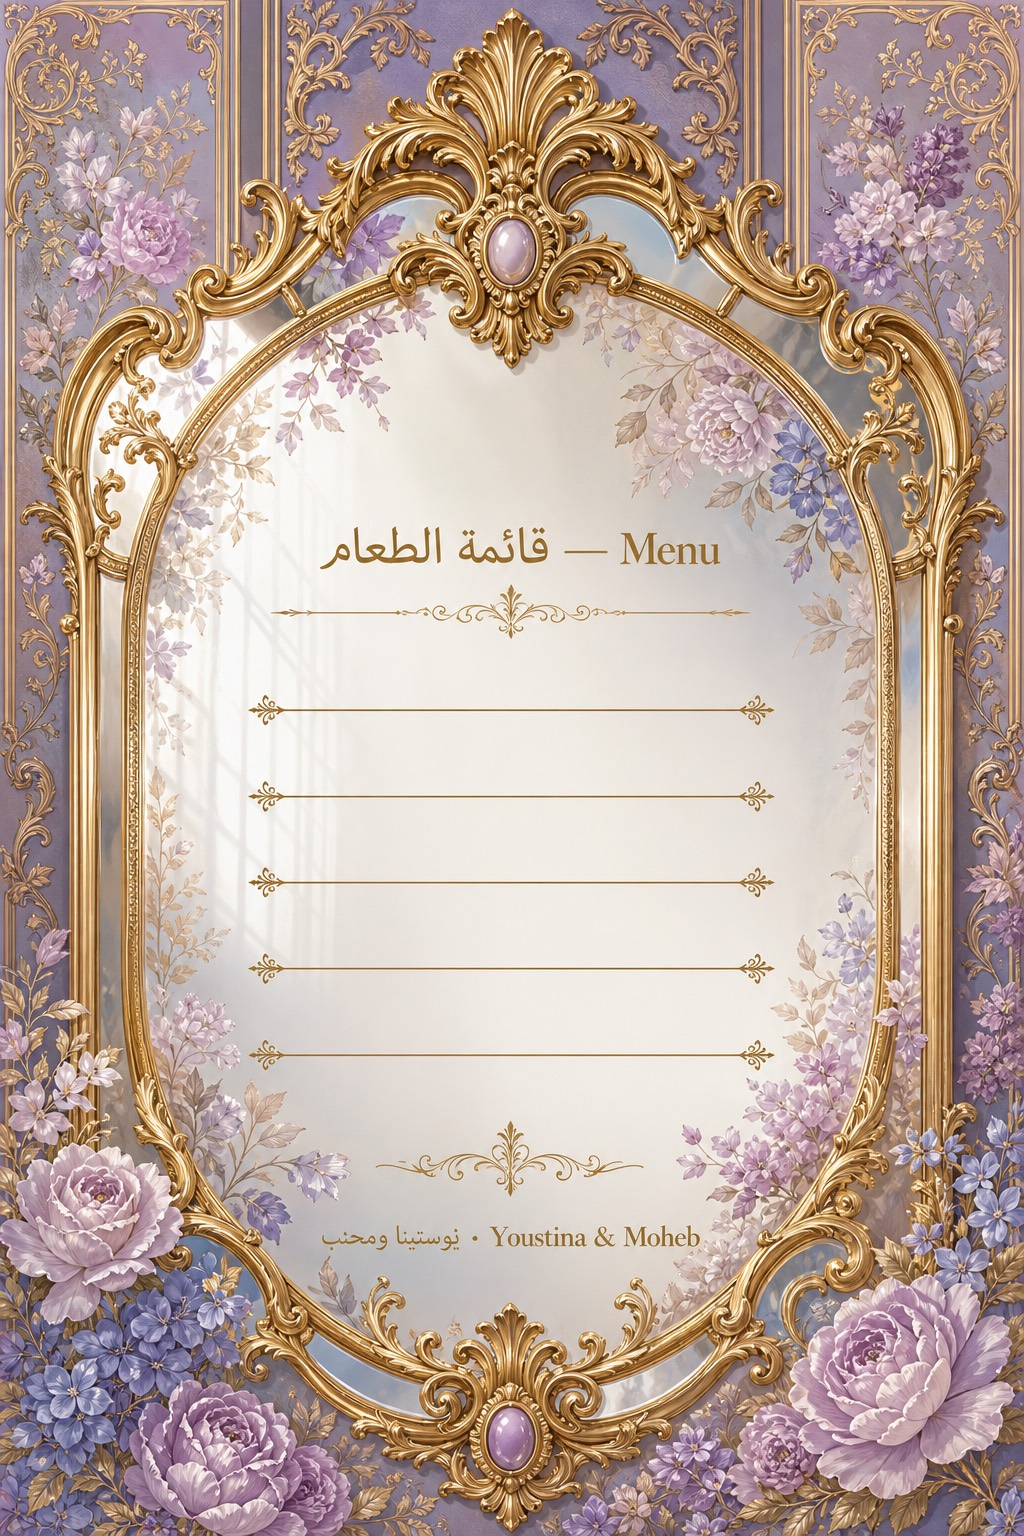
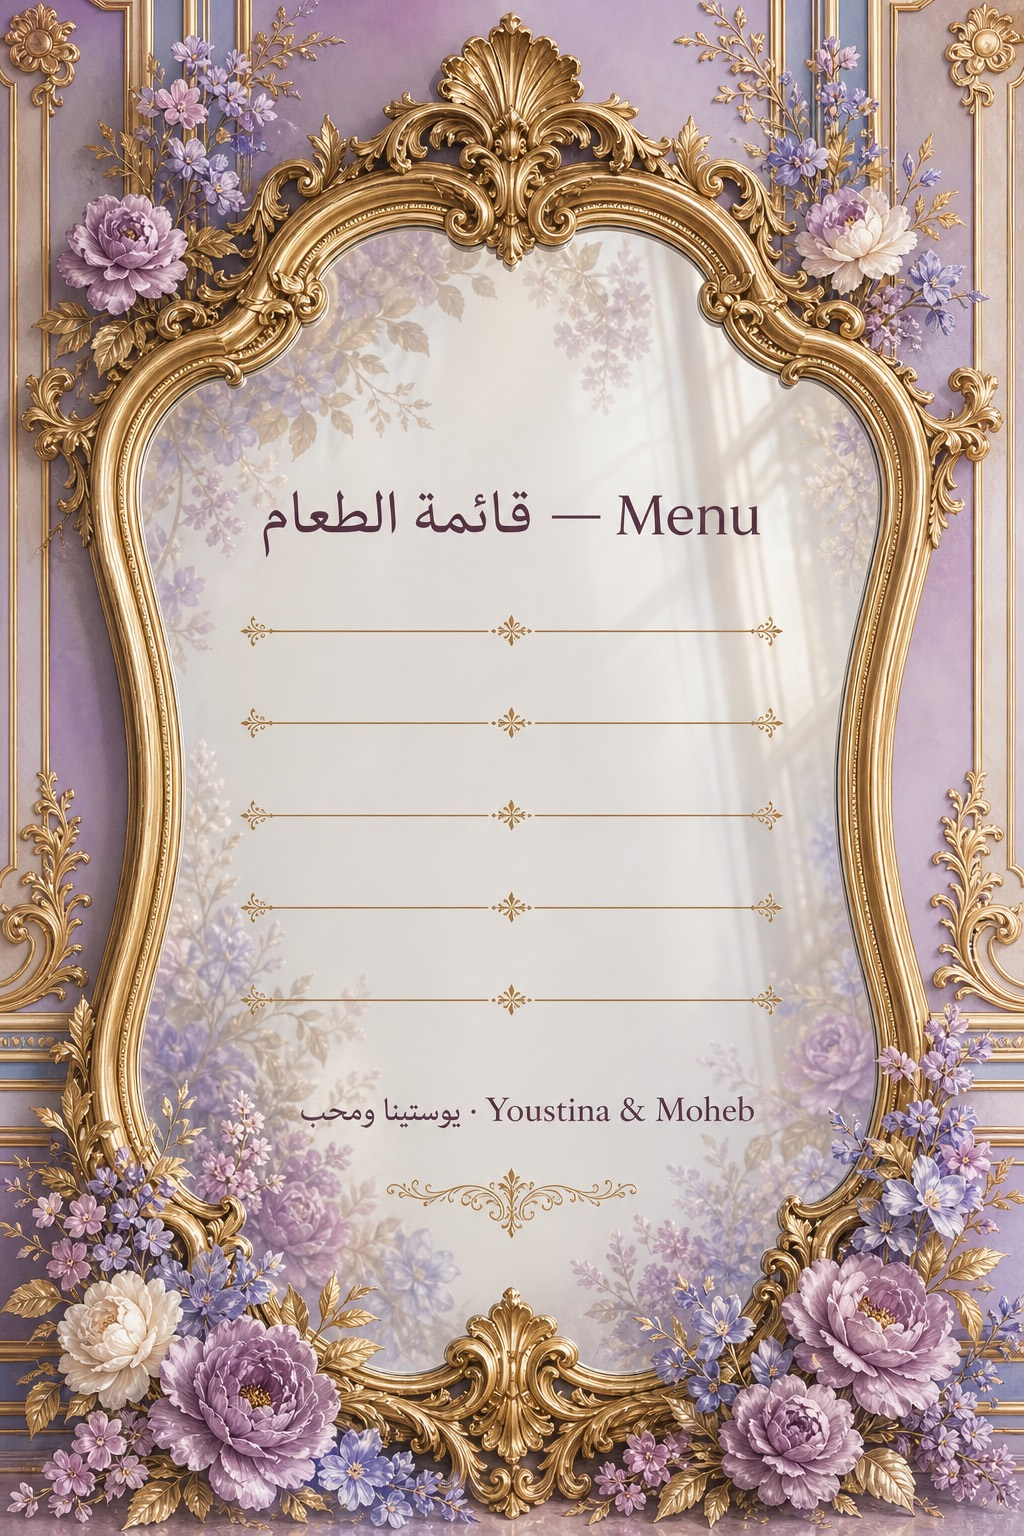
swipe: deck 34 themes, 146 judged

diff --git a/swipe/manifest.js b/swipe/manifest.js
@@ -1,1 +1,1 @@
-window.DECK = [{"theme":"wisteria-cathedral","theme_en":"Wisteria Cathedral","theme_ar":"كاتدرائية الوستارية"},{"theme":"pressed-herbarium","theme_en":"Pressed Herbarium","theme_ar":"معشبة الذكريات"},{"theme":"art-deco-gatsby","theme_en":"Deco Gold","theme_ar":"ذهب العشرينات"},{"theme":"porcelain-chinoiserie","theme_en":"Lilac Porcelain","theme_ar":"خزف الليلك"},{"theme":"stained-glass","theme_en":"Stained Glass","theme_ar":"زجاج الكنيسة الملون"},{"theme":"manuscript-illumination","theme_en":"Illuminated Manuscript","theme_ar":"مخطوطة مذهّبة"},{"theme":"moonlit-garden","theme_en":"Moonlit Garden","theme_ar":"حديقة القمر"},{"theme":"watercolor-jardin","theme_en":"Watercolor Jardin","theme_ar":"حديقة الألوان المائية"},{"theme":"velvet-foil","theme_en":"Velvet & Foil","theme_ar":"قطيفة وذهب"},{"theme":"marble-vein","theme_en":"Gilded Marble","theme_ar":"رخام مذهّب"},{"theme":"lace-veil","theme_en":"The Veil","theme_ar":"طرحة العروسة"},{"theme":"embroidered-linen","theme_en":"Embroidered Linen","theme_ar":"كتان مطرز"},{"theme":"venetian-glass","theme_en":"Venetian Glass","theme_ar":"زجاج البندقية"},{"theme":"andalusian-courtyard","theme_en":"Andalusian Courtyard","theme_ar":"فناء أندلسي"},{"theme":"english-rose-garden","theme_en":"English Rose Garden","theme_ar":"حديقة الورد الإنجليزية"},{"theme":"parisian-atelier","theme_en":"Parisian Atelier","theme_ar":"أتيلية باريس"},{"theme":"dawn-mist","theme_en":"Dawn Mist","theme_ar":"ضباب الفجر"},{"theme":"gilded-birdcage","theme_en":"The Gilded Birdcage","theme_ar":"القفص الذهبي"},{"theme":"crystal-chandelier","theme_en":"Crystal Ballroom","theme_ar":"قاعة الكريستال"},{"theme":"calligraphy-grand","theme_en":"The Calligraphy","theme_ar":"لوحة الخط"},{"theme":"paper-quilling","theme_en":"Paper Garden","theme_ar":"حديقة الورق"},{"theme":"toile-lilas","theme_en":"Toile de Lilas","theme_ar":"توال الليلك"},{"theme":"ombre-silk","theme_en":"Ombré Silk","theme_ar":"حرير متدرج"},{"theme":"pearl-shell","theme_en":"Mother of Pearl","theme_ar":"عرق اللؤلؤ"},{"theme":"olive-holyland","theme_en":"Olive Grove","theme_ar":"غصن الزيتون"},{"theme":"iconostasis-gold","theme_en":"Iconostasis","theme_ar":"حامل الأيقونات"},{"theme":"ink-botanical","theme_en":"Ink Botanical","theme_ar":"نباتات بالحبر"},{"theme":"dancing-ribbons","theme_en":"Dancing Ribbons","theme_ar":"شرائط راقصة"},{"theme":"candlelit-vellum","theme_en":"Candlelit Vellum","theme_ar":"شموع وورق شفاف"},{"theme":"spring-orchard","theme_en":"Spring Orchard","theme_ar":"بستان الربيع"},{"theme":"jasmine-nights","theme_en":"Jasmine Nights","theme_ar":"ليالي الفل"},{"theme":"lotus-nile","theme_en":"Nile Lotus","theme_ar":"لوتس النيل"},{"theme":"baroque-mirror","theme_en":"Baroque Mirror","theme_ar":"مرآة باروك"}];
+window.DECK = [{"theme":"wisteria-cathedral","theme_en":"Wisteria Cathedral","theme_ar":"كاتدرائية الوستارية"},{"theme":"pressed-herbarium","theme_en":"Pressed Herbarium","theme_ar":"معشبة الذكريات"},{"theme":"art-deco-gatsby","theme_en":"Deco Gold","theme_ar":"ذهب العشرينات"},{"theme":"porcelain-chinoiserie","theme_en":"Lilac Porcelain","theme_ar":"خزف الليلك"},{"theme":"stained-glass","theme_en":"Stained Glass","theme_ar":"زجاج الكنيسة الملون"},{"theme":"manuscript-illumination","theme_en":"Illuminated Manuscript","theme_ar":"مخطوطة مذهّبة"},{"theme":"moonlit-garden","theme_en":"Moonlit Garden","theme_ar":"حديقة القمر"},{"theme":"watercolor-jardin","theme_en":"Watercolor Jardin","theme_ar":"حديقة الألوان المائية"},{"theme":"velvet-foil","theme_en":"Velvet & Foil","theme_ar":"قطيفة وذهب"},{"theme":"marble-vein","theme_en":"Gilded Marble","theme_ar":"رخام مذهّب"},{"theme":"lace-veil","theme_en":"The Veil","theme_ar":"طرحة العروسة"},{"theme":"embroidered-linen","theme_en":"Embroidered Linen","theme_ar":"كتان مطرز"},{"theme":"venetian-glass","theme_en":"Venetian Glass","theme_ar":"زجاج البندقية"},{"theme":"andalusian-courtyard","theme_en":"Andalusian Courtyard","theme_ar":"فناء أندلسي"},{"theme":"english-rose-garden","theme_en":"English Rose Garden","theme_ar":"حديقة الورد الإنجليزية"},{"theme":"parisian-atelier","theme_en":"Parisian Atelier","theme_ar":"أتيلية باريس"},{"theme":"dawn-mist","theme_en":"Dawn Mist","theme_ar":"ضباب الفجر"},{"theme":"gilded-birdcage","theme_en":"The Gilded Birdcage","theme_ar":"القفص الذهبي"},{"theme":"crystal-chandelier","theme_en":"Crystal Ballroom","theme_ar":"قاعة الكريستال"},{"theme":"calligraphy-grand","theme_en":"The Calligraphy","theme_ar":"لوحة الخط"},{"theme":"paper-quilling","theme_en":"Paper Garden","theme_ar":"حديقة الورق"},{"theme":"toile-lilas","theme_en":"Toile de Lilas","theme_ar":"توال الليلك"},{"theme":"ombre-silk","theme_en":"Ombré Silk","theme_ar":"حرير متدرج"},{"theme":"pearl-shell","theme_en":"Mother of Pearl","theme_ar":"عرق اللؤلؤ"},{"theme":"olive-holyland","theme_en":"Olive Grove","theme_ar":"غصن الزيتون"},{"theme":"iconostasis-gold","theme_en":"Iconostasis","theme_ar":"حامل الأيقونات"},{"theme":"ink-botanical","theme_en":"Ink Botanical","theme_ar":"نباتات بالحبر"},{"theme":"dancing-ribbons","theme_en":"Dancing Ribbons","theme_ar":"شرائط راقصة"},{"theme":"candlelit-vellum","theme_en":"Candlelit Vellum","theme_ar":"شموع وورق شفاف"},{"theme":"spring-orchard","theme_en":"Spring Orchard","theme_ar":"بستان الربيع"},{"theme":"jasmine-nights","theme_en":"Jasmine Nights","theme_ar":"ليالي الفل"},{"theme":"lotus-nile","theme_en":"Nile Lotus","theme_ar":"لوتس النيل"},{"theme":"baroque-mirror","theme_en":"Baroque Mirror","theme_ar":"مرآة باروك"},{"theme":"morning-dew","theme_en":"Morning Dew","theme_ar":"ندى الصباح"}];

diff --git a/swipe/index.html b/swipe/index.html
@@ -142,7 +142,7 @@
 </div>
 
 <div id="toast"></div>
-<p class="ver">٥ · 5</p>
+<p class="ver">٦ · 6</p>
 
 <script src="manifest.js"></script>
 <script>
